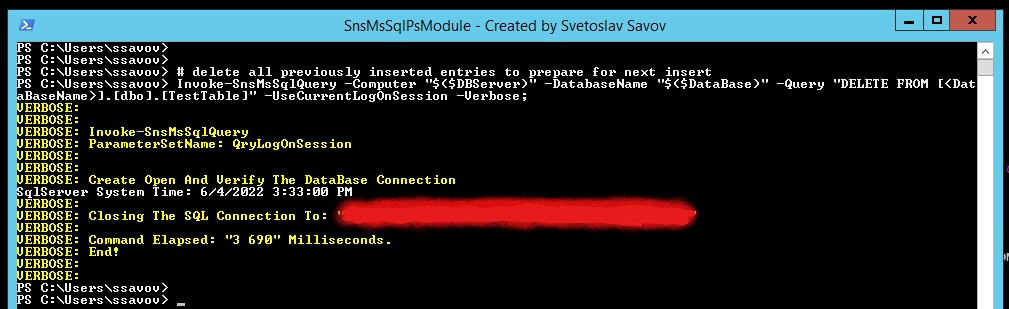
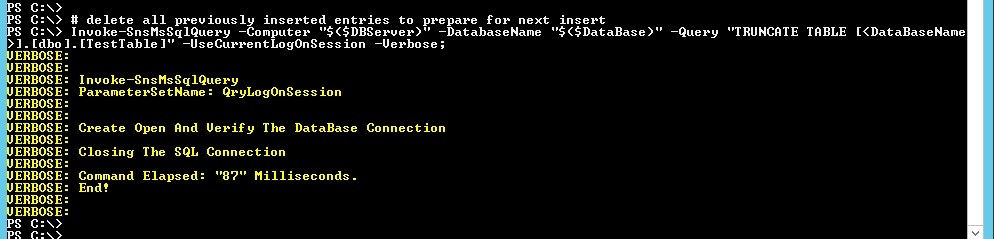
commit

diff --git a/README.md b/README.md
@@ -5,31 +5,30 @@
 
 # SnsMsSqlPsModule PowerShell Module
 
-This is a PowerShell module for working with [MS SQL Server](https://www.microsoft.com/en-us/sql-server/sql-server-downloads) DataBases, based on my previous project related with SQLite serverless DataBases, named ["SnsSqlitePsModule"](https://github.com/svesavov/SnsSqlitePsModule).
-Working with SQLite is nice and free, it is good for learning SQL, and decent for usage within production automations and scripts, to keep temporary or configuration data (If the machine that hosts the automation have fast Hard Disks). However where it comes to large volumes of data, accessed by multiple automations or scripts, arises the need of some more powerful Server / Service based DataBase, capable to better manage the DataBase locks.
-In general the PowerShell binary CmdLets are much faster comparing with the written-on PowerShell ones. Which was my main argument to make this PowerShell module a Binary Module.
-The Pipeline design is usually related with compromises, within the CmdLets in this module, I preferred to make the pipelines to be possible running multiple SQL queries, or single SQL query with multiple SQL Parameters against a single DataBase, rather than running a single SQL Query with or without single SQL Parameters set against multiple DataBases. The previous experience shows that such a scenario has no usage at all.
+* This is a PowerShell module for working with [MS SQL Server](https://www.microsoft.com/en-us/sql-server/sql-server-downloads) DataBases, based on my previous project related with SQLite serverless DataBases, named ["SnsSqlitePsModule"](https://github.com/svesavov/SnsSqlitePsModule). Working with SQLite is nice and free, it is good for learning SQL, and decent for usage within production automations and scripts, to keep temporary or configuration data (If the machine that hosts the automation have fast Hard Disks). However where it comes to large volumes of data, accessed by multiple automations or scripts, arises the need of some more powerful Server / Service based DataBase, capable to better manage the DataBase locks.
+* In general the PowerShell binary CmdLets are much faster comparing with the written-on PowerShell ones. Which was my main argument to make this PowerShell module a Binary Module.
+* The Pipeline design is usually related with compromises. Within the CmdLets in this module, I choose to make the pipelines capable to process multiple SQL queries, or single SQL query with multiple SQL Parameters against a single DataBase. Rather than running a single SQL Query with or without SQL Parameters set against multiple DataBases. The previous experience shows that such a scenario has no usage at all.
 
 
 ## Features
 
-* Progress Bar is visible only when a CmdLet is executed interactively. This improves the performance of scripts running as a service on a schedule.
+* Progress Bar is visible only when a CmdLet is executed interactively. This improves the performance of the scripts and the automations running as a service on a schedule.
 ![ProgressBar](/Media/ProgressBar.jpg)
 
 * Working with the pipeline. Using "begin", "process" and "end" methods improves the performance.
 ![ObjectInsertNoPipeline](/Media/ObjectInsertNoPipeline.jpg)
 ![ObjectInsertWithPipeline](/Media/ObjectInsertWithPipeline.jpg)
 
-* Bulk insert of PowerShell Objects into specified Table within specified DataBase. Managing of the Primary Key uniqueness violation SQL errors, when the inserted entries already exist and ConflictingClause is specified.
+* Bulk insert of PowerShell Objects into specified Table within specified DataBase with Managing of the Primary Key uniqueness violation SQL errors, when "ConflictingClause" parameter is used and the inserted entries already exist.
 
-* Usage of SQL Transactions. The CmdLets Can evaluate whether transaction is required and automatically manage the transactions. This feature can be disabled if the transactions are manually managed within the SQL Query.
+* Usage of SQL Transactions. The CmdLets Can evaluate whether transaction is required and automatically manage the transactions. This feature can be disabled if the transactions are manually managed within the specified SQL Query.
  
-* Built-in performance measurement accessible in Verbose stream.
+* Built-in performance measurement accessible via Verbose stream.
 ![VerifyTableCreation](/Media/VerifyTableCreation.jpg)
 
-* PowerShell Parameter Sets defining the SQL Authentication
+* PowerShell Parameter Sets corresponding to the supported by the CmdLets SQL Authentication methods.
 
-* Possibility to keep the SQL Queries outside of the scripts to simplify the changes with future scripts versions release, allowing to change the scripts code without to modify the SQL part, or modifying of the SQL Queries whenever something is changed on the SQL DataBase without need of new script version release.
+* Possibility to keep the SQL Queries outside of the scripts to simplify the changes related with future scripts versions releases. Allowing either to change the scripts PowerShell code without to modify the SQL code, or modify only the SQL code without need of new script version release, whenever something is changed on SQL level.
 
 * The SQL Queries are evaluated about keywords and modified accordingly with information from the CmdLet Parameters. In this way switching from DEV DataBase to Production DataBase is transperant and does not require change of the scripts code or SQL files.
 When the keyword <DataBaseName> is used in a query it will be replaced with the value specified to the "DataBase" parameter.
@@ -57,7 +56,7 @@ Install-Module "SnsMsSqlPsModule" -Scope "AllUsers";
 OR
 1. Download SnsMsSqlPsModule.zip.
 2. Don't forget to check the .ZIP file for viruses and etc.
-3. File MD5 hash: `8E73FCB254DFF3E9856B5C350FF0C5DB`
+3. File MD5 hash: `D0D9D819D5EBF20048050A4FE8E4F082`
 4. Unzip in one of the following folders depending of your preference:
 * `C:\Users\UserName\Documents\WindowsPowerShell\Modules` - Replace "UserName" with the actual username If you want the module to be available for specific user.
 * `C:\Program Files\WindowsPowerShell\Modules` - If you want the module to be available for all users on the machine.
@@ -81,7 +80,7 @@ $DataBase = "MyDataBase";
 ```
 
 
-Create "TestTable" in the specified DataBase
+Create table "TestTable" in the specified DataBase.
 ![CreateTable](/Media/CreateTable.jpg)
 ```powershell
 
@@ -118,7 +117,7 @@ COMMIT;
 "@
 
 
-# Runs the SQL query against the specified DataBase on the specified server and instance under the security context of the currently logged on user
+# Runs the SQL query against the specified DataBase under the security context of the currently logged on user
 # Creates table "TestTable"
 Invoke-SnsMsSqlQuery `
 	-Computer "$($DBServer)" `
@@ -167,7 +166,7 @@ $CmdStart = [System.DateTime]::now;
 		"ID" = "$($_)";
 		"Message" = "Fake Event Message";
 		"Severity" = "Error";
-		"Date" = [System.DateTime]::UtcNow.AddMinutes(100001 - $_);
+		"Date" = [System.DateTime]::UtcNow.AddMinutes(100000 - $_);
 	};
 }
 [System.DateTime]::now - $CmdStart;
@@ -205,7 +204,7 @@ $Output.Count;
 
 
 # delete all previously inserted entries to prepare for next insert
-Invoke-SnsMsSqlQuery -Computer "$($DBServer)" -DatabaseName "$($DataBase)" -Query "DELETE FROM [<DataBaseName>].[dbo].[TestTable]" -UseCurrentLogOnSession -Verbose;
+Invoke-SnsMsSqlQuery -Computer "$($DBServer)" -DatabaseName "$($DataBase)" -Query "TRUNCATE TABLE [<DataBaseName>].[dbo].[TestTable]" -UseCurrentLogOnSession -Verbose;
 
 
 ```
@@ -252,7 +251,7 @@ $Output.Count;
 # Generate InputObject for the first query to delete all the entries in the Table
 # The object must have property names matching the CmdLet parameters or their aliases.
 [System.Object]$objObject = New-Object -TypeName "System.Object";
-$objObject | Add-Member -Force -MemberType "NoteProperty" -Name "Query" -Value "DELETE FROM [<DataBaseName>].[dbo].[TestTable]";
+$objObject | Add-Member -Force -MemberType "NoteProperty" -Name "Query" -Value "TRUNCATE TABLE [<DataBaseName>].[dbo].[TestTable]";
 [System.Object[]]$arrInput += $objObject;
 
 
@@ -263,7 +262,7 @@ $objObject | Add-Member -Force -MemberType "NoteProperty" -Name "Query" -Value "
 $objObject | Add-Member -Force -MemberType "NoteProperty" -Name "SqlParameters" -Value `
 (
 	@{ "ID" = 1; "Message" = "Fake Message 01"; "Severity" = "Error"; "Date" = [System.DateTime]::UtcNow.AddMinutes(-2); },
-	@{ "ID" = 2; "Message" = "Fake Message 02"; "Severity" = "Warning"; "Date" = [System.DateTime]::UtcNow.AddMinutes(-2); }
+	@{ "ID" = 2; "Message" = "Fake Message 02"; "Severity" = "Warning"; "Date" = [System.DateTime]::UtcNow.AddMinutes(0); }
 );
 [System.Object[]]$arrInput += $objObject;
 
@@ -283,7 +282,7 @@ $arrInput | Invoke-SnsMsSqlQuery `
 
 
 # delete all previously inserted entries to prepare for next insert
-Invoke-SnsMsSqlQuery -Computer "$($DBServer)" -DatabaseName "$($DataBase)" -Query "DELETE FROM [<DataBaseName>].[dbo].[TestTable]" -UseCurrentLogOnSession -Verbose;
+Invoke-SnsMsSqlQuery -Computer "$($DBServer)" -DatabaseName "$($DataBase)" -Query "TRUNCATE TABLE [<DataBaseName>].[dbo].[TestTable]" -UseCurrentLogOnSession -Verbose;
 
 
 ```
@@ -304,7 +303,7 @@ ForEach ($a in 1..100000)
 	$objObject | Add-Member -Force -MemberType "NoteProperty" -Name "ID" -Value "$($a)";
 	$objObject | Add-Member -Force -MemberType "NoteProperty" -Name "Message" -Value "Fake Message";
 	$objObject | Add-Member -Force -MemberType "NoteProperty" -Name "Severity" -Value "Warning";
-	$objObject | Add-Member -Force -MemberType "NoteProperty" -Name "Date" -Value([System.DateTime]::UtcNow.AddMinutes(100001 - $a));
+	$objObject | Add-Member -Force -MemberType "NoteProperty" -Name "Date" -Value([System.DateTime]::UtcNow.AddMinutes(100000 - $a));
 	[System.Object[]]$arrInput += $objObject;
 }
 [System.DateTime]::now - $CmdStart;
@@ -353,14 +352,13 @@ $Output.Count;
 
 
 # delete all previously inserted entries to prepare for next insert
-Invoke-SnsMsSqlQuery -Computer "$($DBServer)" -DatabaseName "$($DataBase)" -Query "DELETE FROM [<DataBaseName>].[dbo].[TestTable]" -UseCurrentLogOnSession -Verbose;
+Invoke-SnsMsSqlQuery -Computer "$($DBServer)" -DatabaseName "$($DataBase)" -Query "TRUNCATE TABLE [<DataBaseName>].[dbo].[TestTable]" -UseCurrentLogOnSession -Verbose;
 
 
 ```
 
 * Examples of how to insert a collection of objects without to convert them to hash tables in advance.
-The object properties must match the destination table column names exactly. The values in the object properties must have type, either some struct or string class. Values from any other classes might lead to unexpected results as for example instead of the actual value to be inserted the object type.
-The reason to make this CmdLet is to be simplified the bulk upload and eliminate the need of converting the input objects to Hashtables.
+The main reason for this CmdLet is to allow users without or with limited knowledge about SQL query language to work with DataBases. The CmdLet creates the SQL query and SQL parameters on its own. The user has no need even to know what SQL injection is and how to avoid it. However this comes with limitations. The CmdLet is capable only to insert data. It can manage the Primary Key constraints violations if that is requested, but it cannot manage the UNIQUE constraints on not Primary Key columns. Additionally the input objects properties must match the destination table column names exactly. The values in the object properties must have type, either struct or string class. Values from any other classes might lead to unexpected results. The destination DataBase Table must exist. The CmdLet Can evaluate the destination table but cannot create tables.
 
 Without using the pipeline
 ![ObjectInsertNoPipeline](/Media/ObjectInsertNoPipeline.jpg)
@@ -393,7 +391,7 @@ $Output.Count;
 
 
 # delete all previously inserted entries to prepare for next insert
-Invoke-SnsMsSqlQuery -Computer "$($DBServer)" -DatabaseName "$($DataBase)" -Query "DELETE FROM [<DataBaseName>].[dbo].[TestTable]" -UseCurrentLogOnSession -Verbose;
+Invoke-SnsMsSqlQuery -Computer "$($DBServer)" -DatabaseName "$($DataBase)" -Query "TRUNCATE TABLE [<DataBaseName>].[dbo].[TestTable]" -UseCurrentLogOnSession -Verbose;
 
 
 ```
